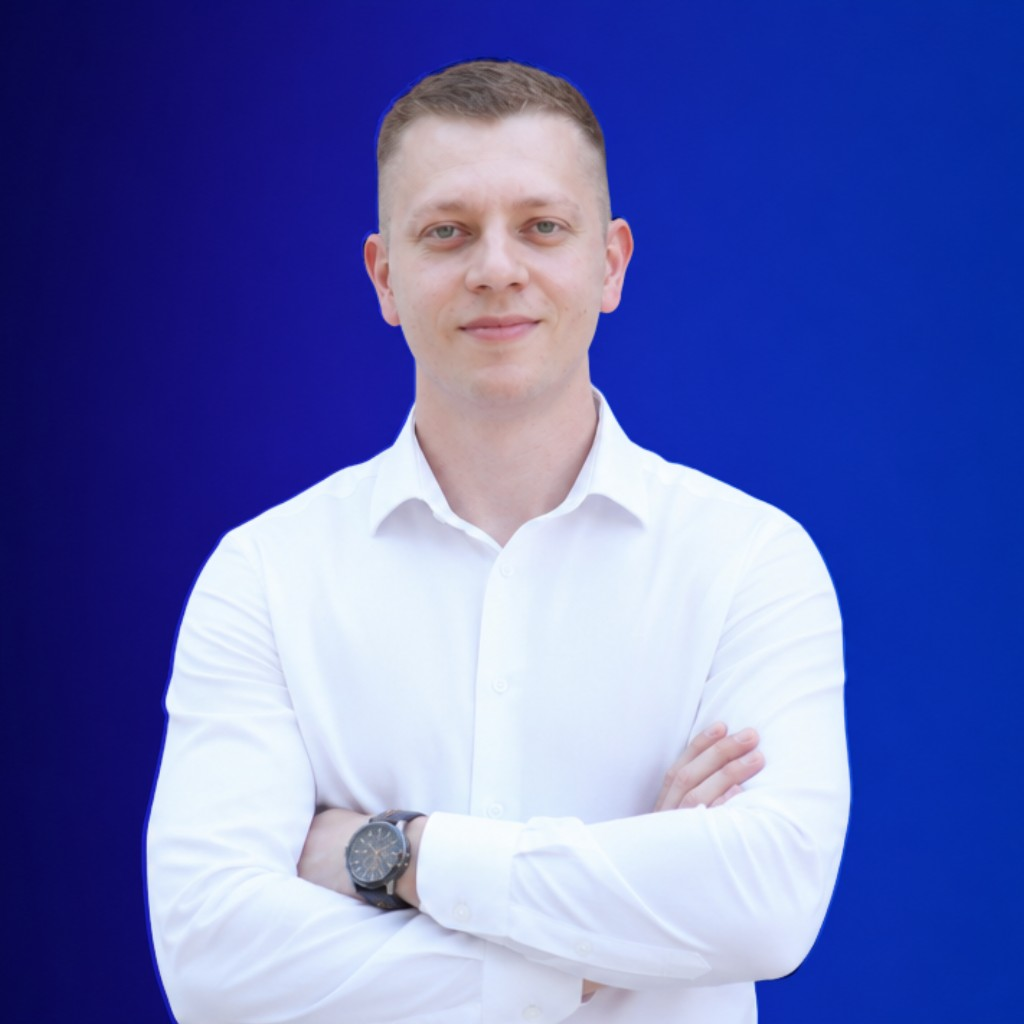
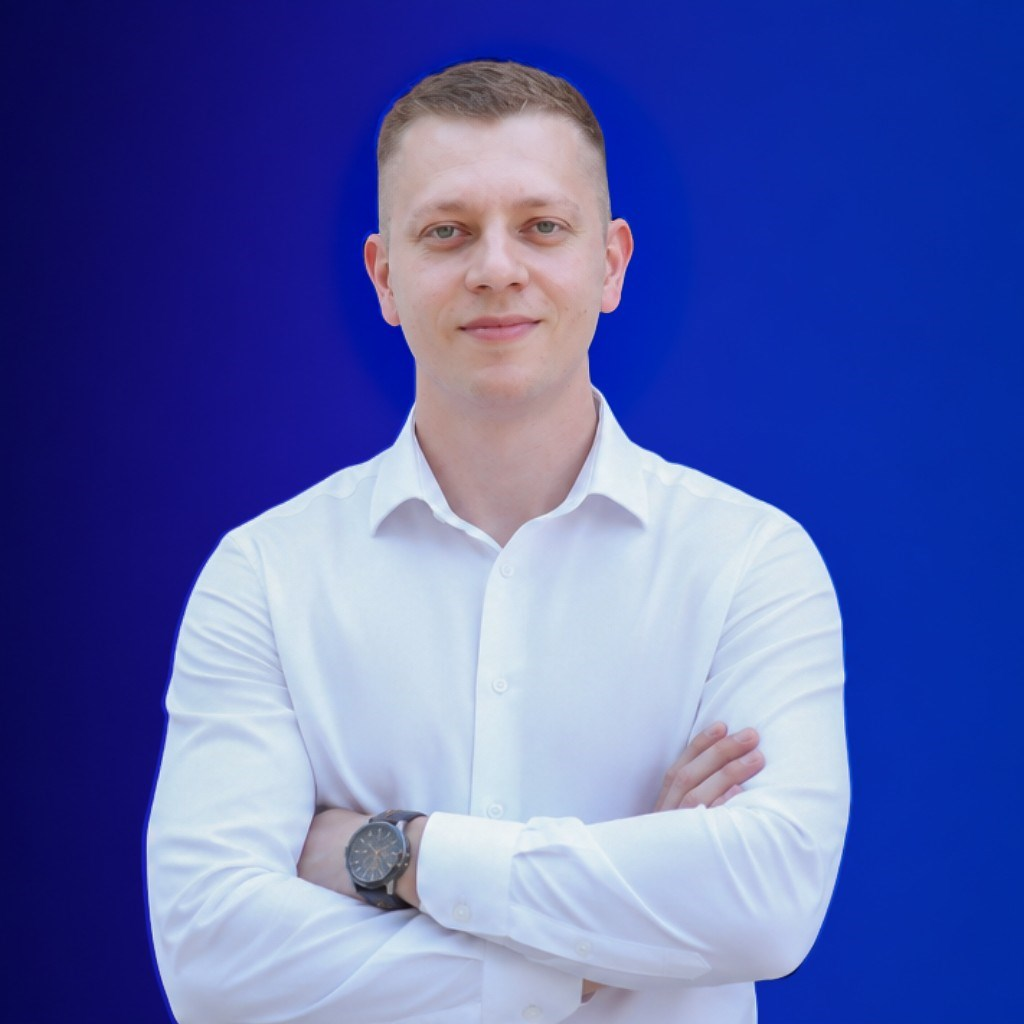
Refresh hero portraits and match mobile menu to footer navy gradient.

Changed region(s): [[0.125, 0.4062, 0.8438, 1.0], [0.375, 0.3438, 0.4062, 0.375], [0.3438, 0.2188, 0.375, 0.25]]

diff --git a/lumora/index.html b/lumora/index.html
@@ -1239,7 +1239,9 @@ html.lenis,html.lenis body{height:auto}
 .nav-menu[hidden],.modal[hidden]{display:none!important}
 
 /* Nav menu */
-.nav-menu{position:fixed;inset:0;z-index:115;display:flex;flex-direction:column;background:#0a0a0a;color:#fff;opacity:0;pointer-events:none;visibility:hidden;transition:opacity .5s cubic-bezier(.22,1,.36,1),visibility .5s}
+.nav-menu{position:fixed;inset:0;z-index:115;display:flex;flex-direction:column;background:var(--hero-bg);background-color:var(--hero-mid);color:#fff;opacity:0;pointer-events:none;visibility:hidden;transition:opacity .5s cubic-bezier(.22,1,.36,1),visibility .5s}
+.nav-menu::before{content:"";position:absolute;inset:0;z-index:0;pointer-events:none;background:radial-gradient(ellipse 140% 110% at 50% 42%, transparent 50%, rgba(8,22,60,.15) 100%);opacity:.45}
+.nav-menu__top,.nav-menu__nav,.nav-menu__bottom{position:relative;z-index:1}
 .nav-menu.is-open{opacity:1;pointer-events:auto;visibility:visible}
 .nav-menu__top{display:flex;align-items:center;justify-content:space-between;padding:1.25rem}
 @media(min-width:640px){.nav-menu__top{padding:1.5rem 2rem}}
@@ -1322,9 +1324,9 @@ html.lenis,html.lenis body{height:auto}
     <div class="liquid" id="liquid">
       <div class="liquid__field" aria-hidden="true"></div>
       <img class="liquid__img" id="liquidBase" alt="" decoding="async" fetchpriority="high"
-        src="./assets/hero/portfolio-base.jpg" />
+        src="./assets/hero/portfolio-base.jpg?v=3" />
       <img class="liquid__clear" id="liquidClear" alt="" decoding="async"
-        src="./assets/hero/portfolio-clear.jpg" />
+        src="./assets/hero/portfolio-clear.jpg?v=3" />
       <canvas class="liquid__canvas" id="liquidCanvas" aria-hidden="true"></canvas>
     </div>
     <div class="hero__vignette" aria-hidden="true"></div>
@@ -1593,8 +1595,8 @@ html.lenis,html.lenis body{height:auto}
 <script type="module">
 import Lenis from 'lenis';
 
-const BASE_SRC = './assets/hero/portfolio-base.jpg';   // always-shown base (blue silhouette)
-const CLEAR_SRC = './assets/hero/portfolio-clear.jpg'; // brush-revealed clear portrait
+const BASE_SRC = './assets/hero/portfolio-base.jpg?v=3';   // always-shown base (blue silhouette)
+const CLEAR_SRC = './assets/hero/portfolio-clear.jpg?v=3'; // brush-revealed clear portrait
 const CALENDLY_URL = 'https://calendly.com/goransantic/30min';
 
 const ICONS = {
